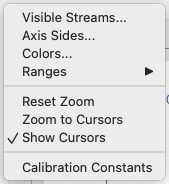
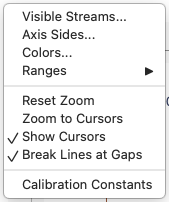
sensorviz docs: shared axes and legend; refresh screenshots
Describe shared group axes, the legend and the grouped Visible Streams
and Axis Sides dialogs in the user manual and README, update the
offline-check table, and replace the done TODO item with its follow-ups.

Regenerate the 13 referenced sensorviz screenshots the capture hooks
produce, from the committed fixtures, and replace the hand-made Visible
Streams dialog image. Most of the image diff is newer macOS window and
menu rendering; the IMUTag plot shows the new colours.

diff --git a/host/applications/sensorviz/README.md b/host/applications/sensorviz/README.md
@@ -73,9 +73,11 @@ sensorViz is two layers:
     `PlotSpec`.
   - `plot_spec.*`: the plot's display policy as a pure function.
     `buildPlotSpec()` turns the streams, display preferences and a
-    `PlotState` into a `PlotSpec` of plain data: traces, one y axis each with
-    its range mode (auto, linked across an IMU x/y/z family, or fixed), the
-    time domain and extent, event markers, metadata-box rows and the title.
+    `PlotState` into a `PlotSpec` of plain data: traces, y axes (one per
+    axis group, see [Plotting Rules](#plotting-rules)) with their member
+    traces and range mode (auto, linked across a group's visible members, or
+    fixed), the time domain and extent, event markers, metadata-box rows and
+    the title.
     `plotspec_check` and `viewmodel_check` check the core against the fixtures
     without Qt.
 - **The Qt front end** (everything else): an adapter over the core. Menus and
@@ -108,7 +110,8 @@ The Qt front end is split by responsibility:
   [Data Model](#data-model)).
 - `stream_actions.cpp`: the stream actions (views of the ViewModel's
   visibility), visible-stream, axis-side, color and range dialogs, and range
-  coupling between related streams.
+  coupling between related streams. The visible-stream and axis-side dialogs
+  list a group of streams that share an axis together.
 - `transforms.cpp`: scalar display transforms such as altitude, activity
   low-pass, and IMUTag vector magnitudes.
 - `compass_transforms.cpp`: compass orientation samples, built from a processed
@@ -117,7 +120,8 @@ The Qt front end is split by responsibility:
   battery-forward convention, and compass-panel sample updates.
 - `plot_view.*`: `PlotView`, the only code that touches QCustomPlot. It draws
   a `PlotSpec` (converting its strings and colors to Qt's), owns the graphs, dynamic axes, elapsed/date time axis, cursors,
-  event markers, title and draggable metadata box, refills graphs from the
+  event markers, title, draggable metadata box and draggable legend (one
+  column per shared axis), refills graphs from the
   plot backend, prints, and reports the mouse through signals (`hoverTime`,
   `cursorsChanged`, `xRangeChanged`, `contextMenuRequested`). A different
   renderer could draw the same spec.
@@ -264,11 +268,26 @@ structures. Adding a simple one-column sensor table should usually start in
   `0-50 C`.
 - Other streams default to the left axis unless `defaultDisplayForStream()`
   assigns a different display policy.
-- IMUTag raw pressure/temperature and `x/y/z` component streams default hidden
-  on the right axis; derived IMUTag summary streams default visible on the left.
+- IMUTag raw pressure/temperature default hidden on the right axis. IMUTag
+  `x/y/z` component streams default hidden and their derived magnitudes
+  visible, all on the left, so a group's shared axis does not change side as
+  members are shown.
 - Autoscaled y-axes get a 5% margin.
-- Visible IMUTag `x/y/z` families share a y-axis range within each family so
-  component traces are comparable.
+- Visible streams with the same `streams.group_id` and units share one y axis
+  (`axisGroupKey()`); a derived magnitude joins its components' group. The
+  axis is labelled with the group name and units and spans the union of its
+  members' data. A member's custom range, or a side override, sets the whole
+  axis (the first member with one wins, and the Range dialog sets all
+  members). A member's default fixed range, such as |a| from 0, applies only
+  while it is alone, since it would clip signed components. Streams without a
+  group keep an axis of their own.
+- Members of a group are told apart by color: one hue family per IMU group in
+  a fixed `x/y/z` order, the magnitude a darker shade drawn heavier. Line
+  styles are not used: on a dense trace drawn as a per-pixel envelope, dashes
+  are indistinguishable from a solid line, and the cursors and event markers
+  are already dashed. A legend names the traces of each shared axis, with
+  samples two pixels wider than their traces; it is hidden while no axis is
+  shared.
 - Displayed streams can have explicit y-axis ranges set from the View menu or
   plot context menu.
 - Lines break at gaps in the data (View > Break Lines at Gaps, on by
@@ -283,8 +302,9 @@ structures. Adding a simple one-column sensor table should usually start in
   than the full path. The title is current-view state, not a saved preference.
 - The metadata box shows only contextual rows. Start time appears for
   elapsed-axis logs, declination appears when heading is visible, and sea-level
-  pressure appears when altitude is visible. The box can be dragged within the
-  plot; the position is session state and is not saved.
+  pressure appears when altitude is visible. The box and the legend can be
+  dragged within the plot; their positions are session state and are not
+  saved.
 
 ## Preferences
 
@@ -336,8 +356,9 @@ used for that calculation. For IMUTag logs, altitude is generated from
 available.
 
 IMUTag acceleration, gyroscope, and magnetic field magnitudes are generated
-automatically from their corresponding `x/y/z` streams. They appear adjacent to
-their source axes in Visible Streams.
+automatically from their corresponding `x/y/z` streams. They join their
+components' group, so they share their axis and appear with them under the
+group's checkbox in Visible Streams.
 
 Low-pass activity is controlled by Configuration instead of duplicated in the
 View menu. Compass plot streams are generated automatically on load and then

diff --git a/host/docs/src/apps/sensorviz.md b/host/docs/src/apps/sensorviz.md
@@ -86,8 +86,8 @@ may be short for simple tags and longer for IMUTag or CompassTag logs.
 
 | Menu item | Function |
 | --- | --- |
-| **Visible Streams...** | Opens a checklist of loaded raw and generated streams. Use it to show or hide streams without reloading the log. |
-| **Axis Sides...** | Opens a dialog that assigns each visible stream to the left or right side of the plot. This is useful when streams have different units or overlapping ranges. |
+| **Visible Streams...** | Opens a checklist of loaded raw and generated streams. Use it to show or hide streams without reloading the log. Streams that share an axis, such as the IMUTag accelerometer `x/y/z` and magnitude, are listed under a group checkbox: check it to show the whole group, uncheck it to hide the group, or check members individually. The group checkbox is partly checked while only some members are shown. |
+| **Axis Sides...** | Opens a dialog that assigns each y axis to the left or right side of the plot. A group of streams sharing an axis is one row. This is useful when streams have different units or overlapping ranges. |
 | **Colors...** | Opens a dialog for changing the display color of each visible stream. Each stream can be reset to its default color. |
 | **Ranges** | Opens a submenu with one range command for each visible stream. |
 | **Reset Zoom** | Restores the full loaded time span and clears manual y-axis ranges. Fixed metadata ranges and data-derived default ranges are reapplied. |
@@ -102,6 +102,20 @@ visible; pitch, roll, dip, and magnetic field default to hidden.
 
 ![SensorViz Visible Streams dialog](../images/sensorviz-visible-streams-dialog.png)
 
+### Shared Axes and the Legend
+
+Most streams get a y axis of their own, drawn in the stream's color. Streams
+that the log records as one group with the same units share a single axis
+instead: IMUTag accelerometer, gyroscope and magnetometer `x/y/z`, each with its
+generated magnitude. A shared axis is labelled with the group name and units,
+for example **IMU accelerometer mg**, and its range covers every visible member.
+
+The members of a group are drawn in related colors (accelerometer blues,
+gyroscope reds and oranges, magnetometer greens), with the magnitude in a darker
+shade and a heavier line. While any axis is shared, a legend names its traces,
+one column per shared axis. Drag the legend, or the metadata box, to move it out
+of the way of the data; the position is kept until SensorViz is closed.
+
 ## View > Ranges Submenu
 
 The **Ranges** submenu is rebuilt from the streams currently visible on the
@@ -112,14 +126,16 @@ plot. Each item is named for one stream, for example **Pressure Range...** or
 
 | Menu item | Function |
 | --- | --- |
-| **_Stream_ Range...** | Opens a dialog for the selected stream with minimum and maximum y-axis values. The dialog uses the stream units when units are available. |
+| **_Stream_ Range...** | Opens a dialog for the selected stream with minimum and maximum y-axis values. The dialog uses the stream units when units are available. For a stream on a shared axis, the range applies to the whole axis. |
 
 Range defaults are chosen in this order:
 
 1. A manual range set by the user.
 2. A fixed display range from SensorViz metadata, such as activity `0-100`,
-   voltage `0-5 V`, or core temperature `0-50 C`.
-3. The loaded data minimum and maximum with padding.
+   voltage `0-5 V`, or core temperature `0-50 C`. On a shared axis this
+   applies only while its stream is the axis's only visible member.
+3. The loaded data minimum and maximum with padding, over every visible
+   member of a shared axis.
 
 Pressure and altitude are linked until altitude receives its own explicit
 range. If you set a pressure range while altitude is visible, SensorViz derives
@@ -177,7 +193,9 @@ raw streams.
 IMUTag logs typically contain high-rate accelerometer and gyroscope samples plus
 lower-rate magnetometer and pressure samples. SensorViz keeps the raw `x/y/z`
 component streams available in **View > Visible Streams...**, then generates
-summary magnitude streams that are easier to read on the first plot. IMUTag
+summary magnitude streams that are easier to read on the first plot. Each
+sensor's components and magnitude share one y axis when shown together; see
+[Shared Axes and the Legend](#shared-axes-and-the-legend). IMUTag
 logs use elapsed seconds on the x-axis when the SQLite file stores samples by
 elapsed time rather than UTC epoch.
 

diff --git a/host/applications/sensorviz/TODO.md b/host/applications/sensorviz/TODO.md
@@ -10,41 +10,13 @@ Current behavior and its known limitations are in [README.md](README.md).
 
 ## Near term
 
-- **One y axis per sensor group, with a legend.** Today every visible stream
-  gets its own y axis, so accel x/y/z plus magnitude means four accel axes,
-  and likewise for gyro and magnetometer. Linked groups share a *range*
-  (`linkedAxisGroupId()` in `core/plot_spec.cpp`) but still draw separate
-  axes, which clutters the plot.
-  - *Group membership comes from data, not code.*
-    - Use the `streams` table's `group_id` (`imu_accel`, `imu_gyro`, `imu_mag`;
-      CompassTag record-set groups likewise) instead of the hard-coded ids in
-      `linkedAxisGroupId()`.
-    - Each derived magnitude declares the group of its components when it is
-      registered, so `|a|` shares the accel axis.
-    - A stream with no group keeps its own axis, as now.
-  - *Axis policy* (`buildPlotSpec()`):
-    - one `PlotAxisSpec` per visible group;
-    - traces in a group point at it, and its range covers every visible member;
-    - the axis label is the group name and units ("Acceleration, mg");
-    - a group's axis side, and any fixed or custom range, is set per group, not
-      per stream. Preferences migrate: a per-stream side or range on a member
-      becomes the group's, with the first member winning.
-  - *Legend:* show which coloured trace is which member.
-    - Either a compact legend per group beside its axis (QCustomPlot legend
-      items grouped by axis), or member names in the axis colour on the axis
-      label, e.g. "Acceleration, mg: x y z |a|".
-    - Pick one with a mock-up first.
-    - The legend belongs in `PlotSpec` (traces already carry name and colour)
-      so a webview renderer gets it too.
-  - *Colours:* members of a group need distinct, consistent colours, for
-    example x/y/z/|a| in a fixed order. Today's per-stream defaults in
-    `defaultDisplayForStream()` were chosen for separate axes.
-  - *Checks:*
-    - extend `plotspec_check` with group assignment, the shared range,
-      ungrouped streams, and preference migration;
-    - refresh the screenshot suites, where only the axis and legend layout
-      should change;
-    - update the user manual's sensorviz page.
+- If plots with several shared axes still read as crowded, consider one
+  stacked band per group (a QCustomPlot axis rect each, sharing the time axis,
+  with cursors and markers spanning all bands), with fixed x/y/z colours in
+  every band. The group membership and legend in `PlotSpec` carry over.
+- The first right-hand Auto axis reuses QCustomPlot's `yAxis2`, whose range
+  carries over from earlier rebuilds, so pressure shown alone on the right
+  can start at 0. Decide whether Auto should rescale from the data alone.
 - Keep validating CompassTag and IMUTag derived streams against real logs and
   against specialized/reference tooling where available.
 - Warn the user when a load succeeds but an expected stream or derived stream is
